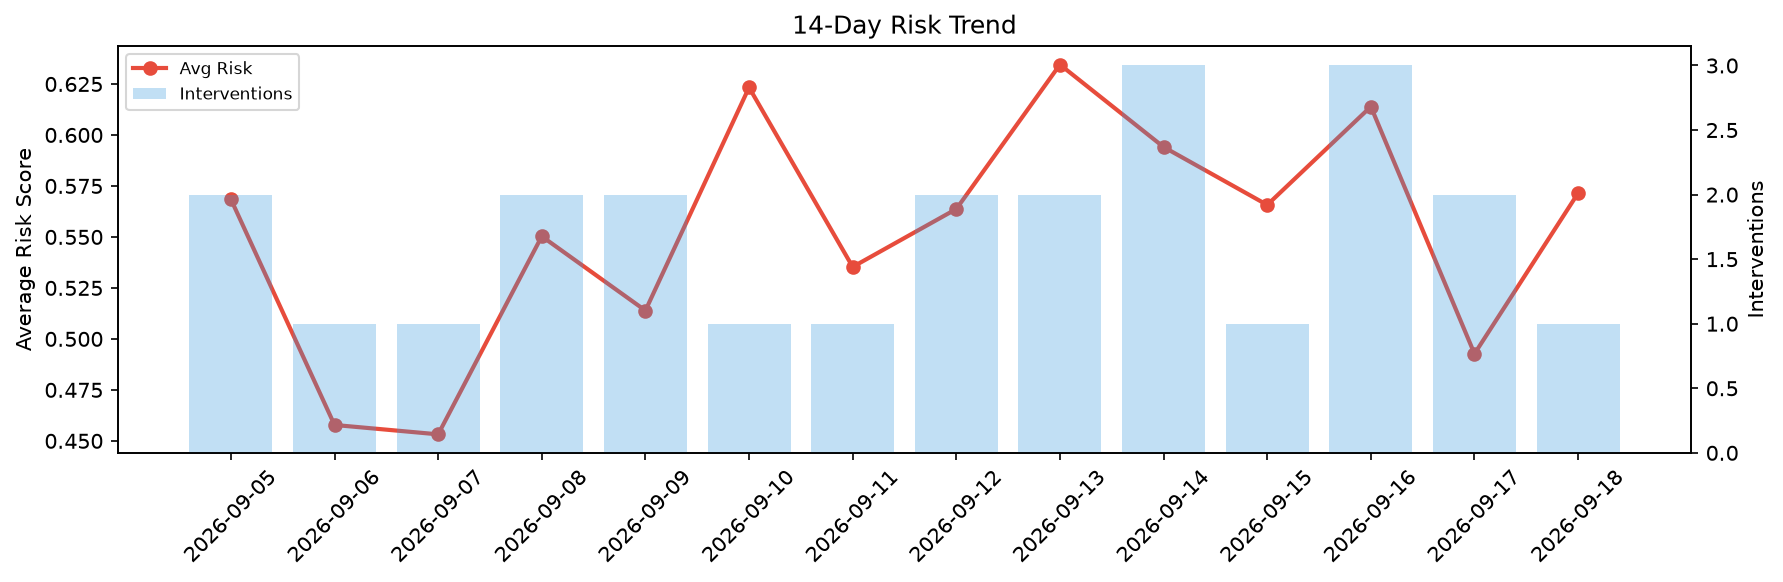
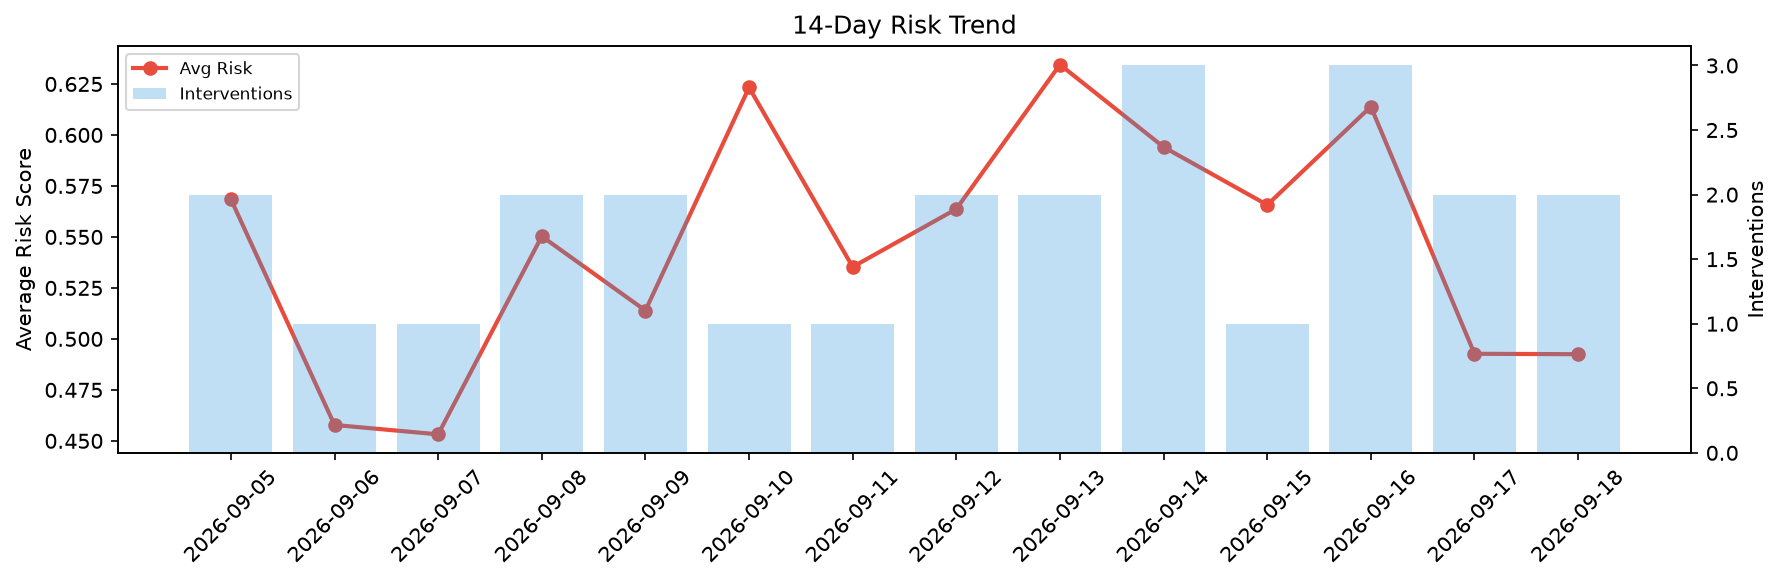
agent-improvement: daily cycle 2026-09-18T22:33

Changed region(s): [[0.8329, 0.3093, 0.9254, 0.5567], [0.8329, 0.5876, 0.8946, 0.6186]]

diff --git a/logs/2026-09-18.md b/logs/2026-09-18.md
@@ -1,6 +1,6 @@
 # Agent Improvement Report — 2026-09-18
 
-**Cycle ID:** `ea627240` | **Avg Risk:** 0.5715 | **Interventions:** 1/4
+**Cycle ID:** `7243aafb` | **Avg Risk:** 0.4925 | **Interventions:** 2/4
 
 ![Dashboard](2026-09-18_dashboard.png)
 
@@ -10,18 +10,18 @@
 
 | Domain | Risk Score | Decision | Alerts |
 |--------|-----------|----------|--------|
-| code_review | 0.4978 | monitor | complexity |
-| incident_response | 0.4045 | monitor | none |
-| data_pipeline | 0.7886 | intervene | schema_drift, volume_anomaly |
-| deployment | 0.5949 | monitor | rollback_rate, canary_error |
+| code_review | 0.2897 | monitor | complexity |
+| incident_response | 0.6154 | intervene | blast_radius |
+| data_pipeline | 0.6899 | intervene | freshness, schema_drift |
+| deployment | 0.375 | monitor | none |
 
 ## Delta vs Yesterday
 
 | Domain | Today | Yesterday | Change |
 |--------|-------|-----------|--------|
-| code_review | 0.4978 | 0.3541 | 📈 40.6% |
-| incident_response | 0.4045 | 0.3112 | 📈 30.0% |
-| data_pipeline | 0.7886 | 0.6949 | 📈 13.5% |
-| deployment | 0.5949 | 0.6106 | 📉 -2.6% |
+| code_review | 0.2897 | 0.3541 | 📉 -18.2% |
+| incident_response | 0.6154 | 0.3112 | 📈 97.8% |
+| data_pipeline | 0.6899 | 0.6949 | 📉 -0.7% |
+| deployment | 0.375 | 0.6106 | 📉 -38.6% |
 
 **Refinement:** `{'adjustment': 'tighten_thresholds', 'trend': 'degrading', 'window': 4}`
